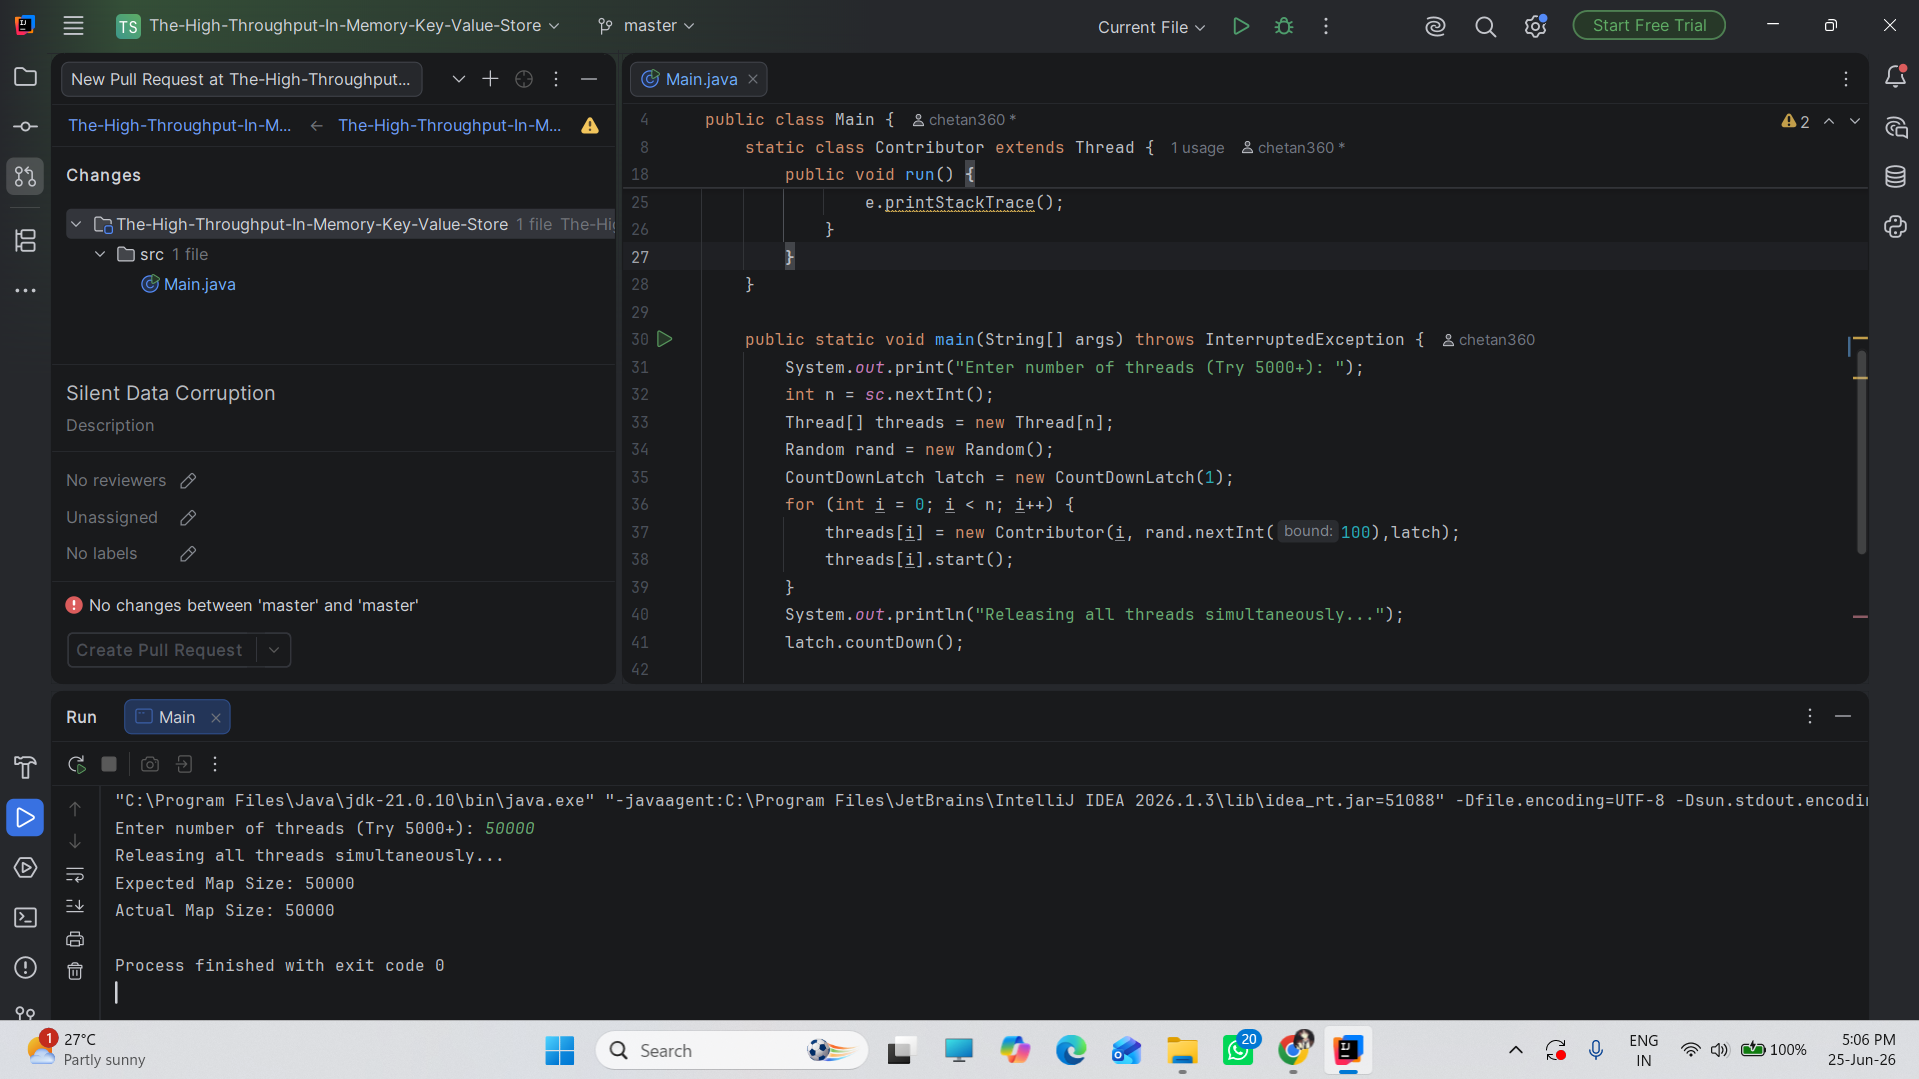
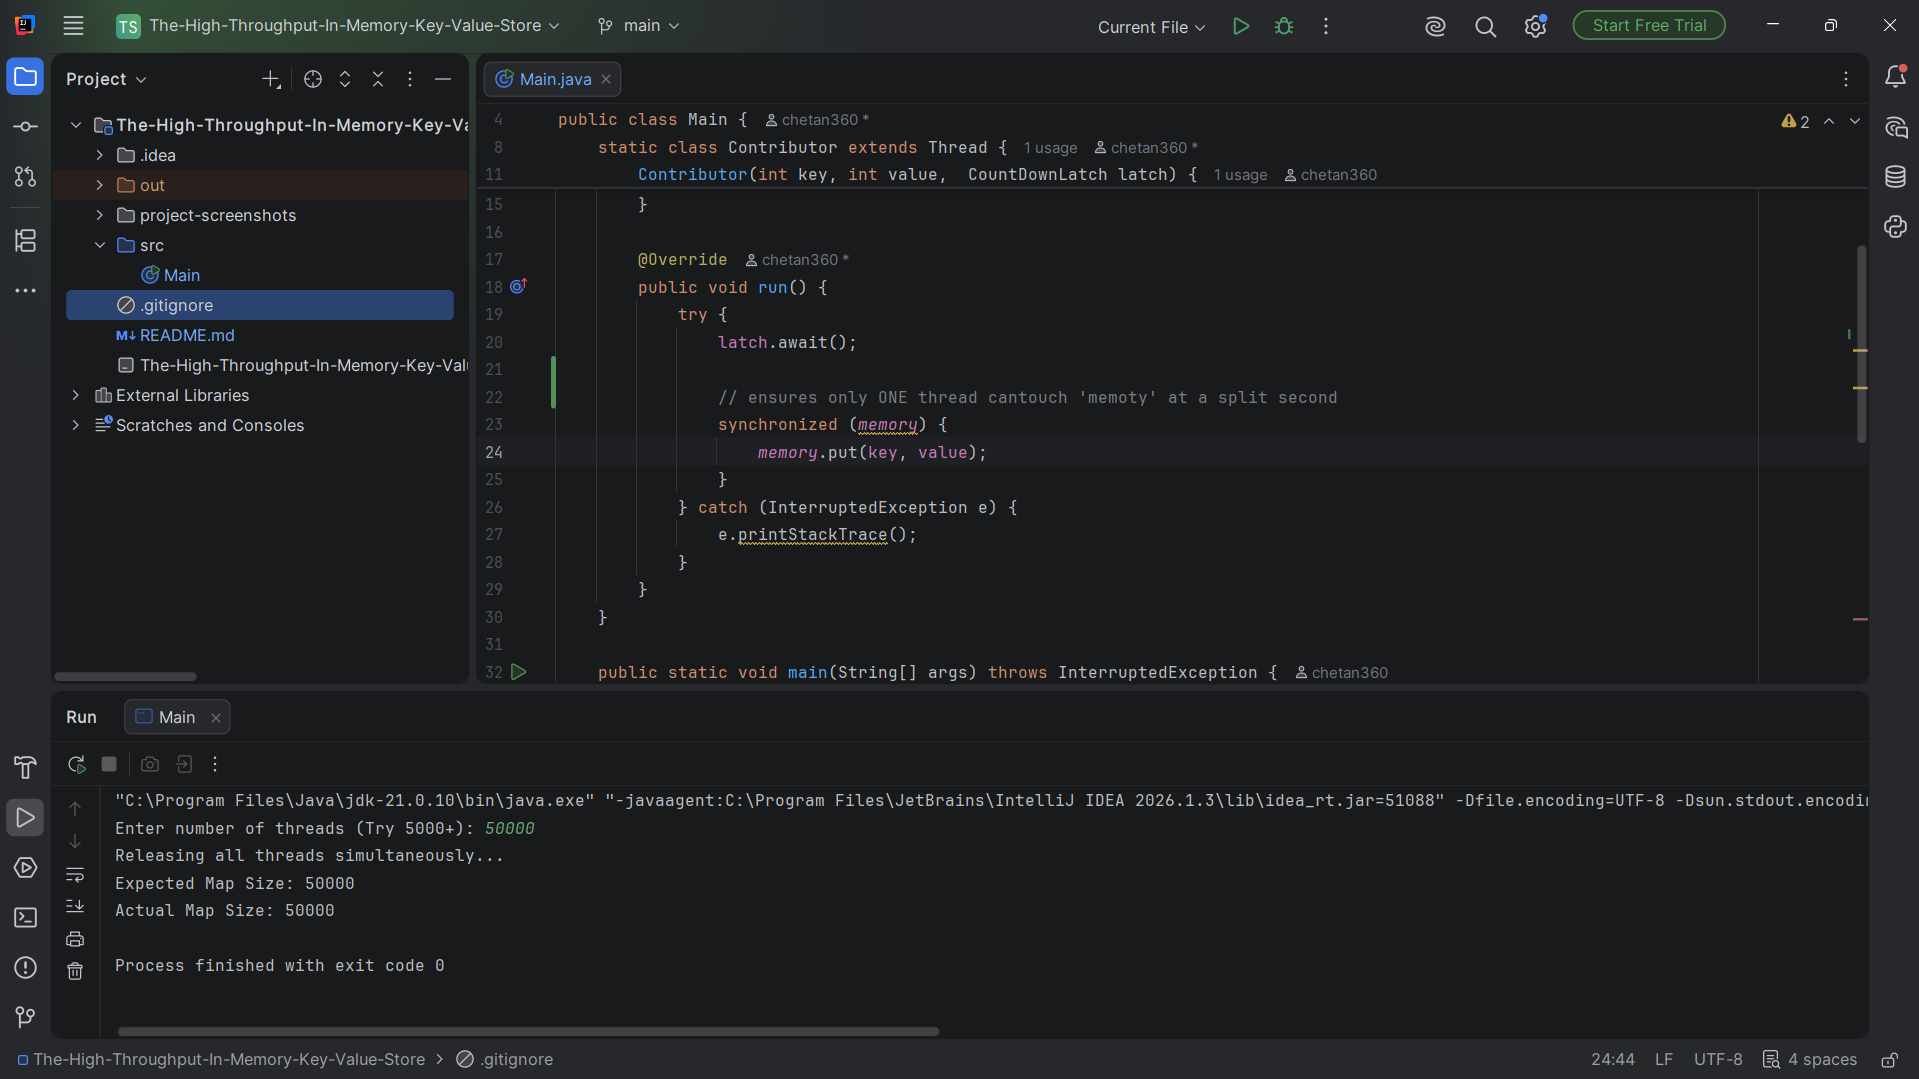
Fixing the Leak by synchronized block

diff --git a/src/Main.java b/src/Main.java
@@ -18,6 +18,8 @@ public class Main {
         public void run() {
             try {
                 latch.await();
+
+                // ensures only ONE thread cantouch 'memoty' at a split second
                 synchronized (memory) {
                     memory.put(key, value);
                 }

diff --git a/README.md b/README.md
@@ -41,6 +41,11 @@ To reproduce this race condition reliably, this engine uses a CountDownLatch act
 
 ![Screenshot 2](project-screenshots/Silent%20Data%20Corruption%20Handled.png)
 
+**Here is the steps to fix:**
+
+- Wrap the memory.put(key, vaule) inside synchronized block.
+- This ensures only ONE thread can touch 'memory' at a split second
+
 ## 🚀 Advanced Optimization: Fine-Grained Concurrency & LRU Eviction (Currently Working on)
 
 - 1. Read-Write Mutex (ReentrantReadWriteLock)
@@ -64,7 +69,3 @@ Feel free to use this template for your own portfolio. Customize it to match you
 ---
 
 **Built with ❤ using Java**
-
-```
-
-```
